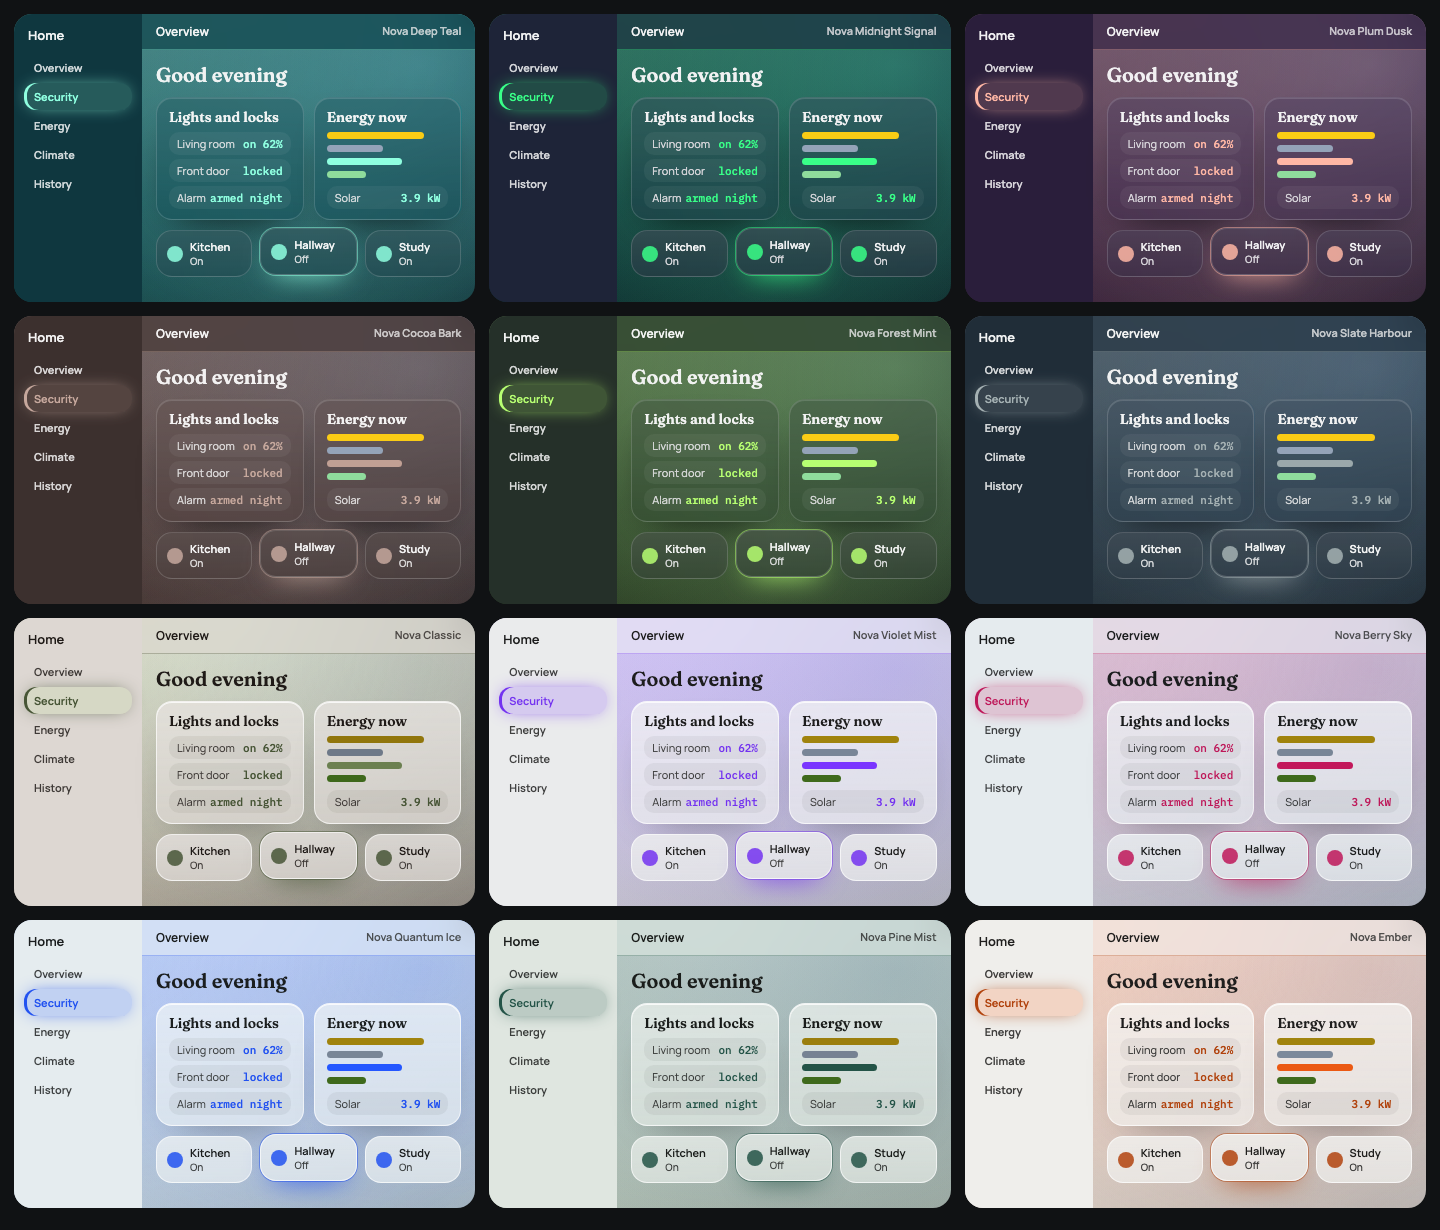
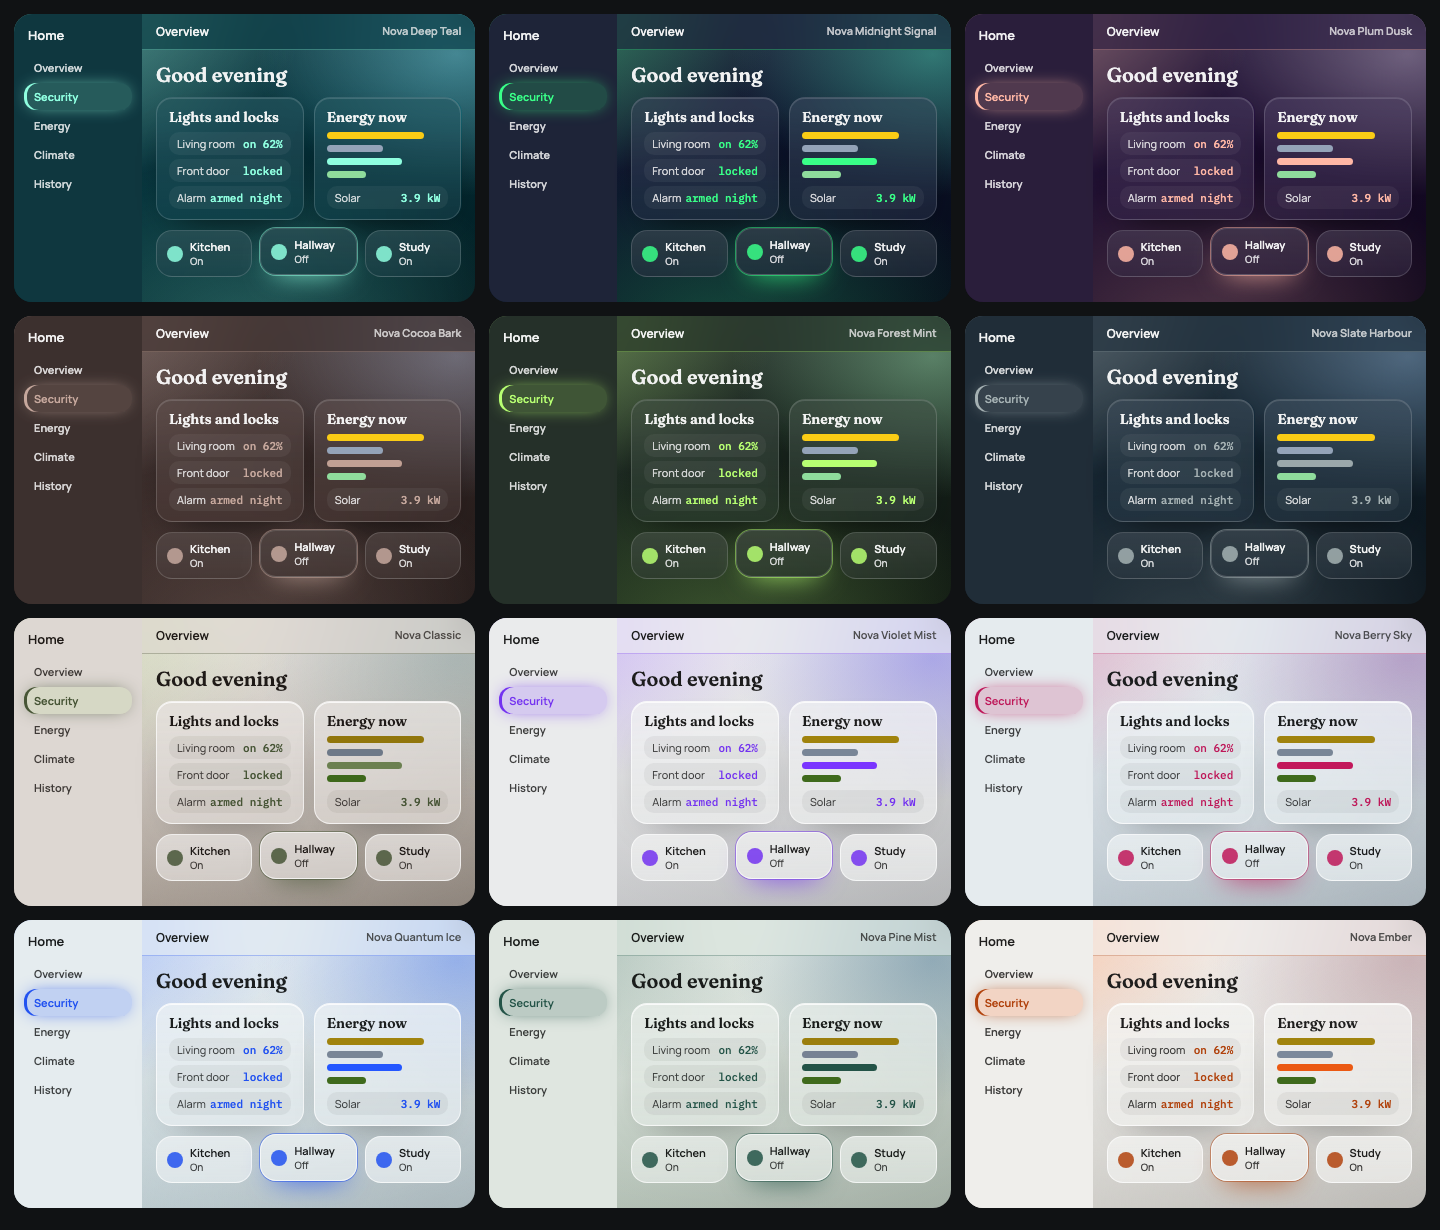
Make the themes look like the README image: lit background, pill rows, example dashboard (#11)
* Scale the lit background with the screen and add an example Nova Home dashboard

* Turn entity rows into pills and add a sections layout to the example dashboard

* Redraw the README image from the updated themes

diff --git a/scripts/check_theme.py b/scripts/check_theme.py
@@ -153,7 +153,10 @@ def main():
         mode_vals = mode_block(theme)
         css = theme.get("card-mod-card", "")
         if name in GLASS_THEMES:
-            if mode_vals.get("lovelace-background", "").count("radial-gradient") < 3:
+            bgv = mode_vals.get("lovelace-background", "")
+            if len(re.findall(r"radial-gradient\(ellipse \d+% \d+% at", bgv)) < 2:
+                errors.append(f"{name}: the lit background must scale with the screen (percentage ellipses)")
+            if bgv.count("radial-gradient") < 3:
                 errors.append(f"{name}: lovelace-background needs the ambient glow (3 radial gradients)")
             for needle in ("backdrop-filter", "@supports", ":host-context(ha-card) ha-card"):
                 if needle not in css:
@@ -179,6 +182,9 @@ def main():
             errors.append(f"{name}: card-mod-sidebar must style the selected sidebar item")
         if "border-radius: 12px !important" not in side or "margin: 2px 10px !important" not in side:
             errors.append(f"{name}: sidebar pill radius and margin need !important (Home Assistant's own styles win otherwise)")
+        row = theme.get("card-mod-row", "")
+        if ":host" not in row or "border-radius: 14px" not in row or ":hover" not in row:
+            errors.append(f"{name}: card-mod-row must turn entity rows into pills with a hover state")
         if ".header" not in root:
             errors.append(f"{name}: card-mod-root must style the header bar")
         if ":has(" not in card or ":active" not in card:

diff --git a/README.md b/README.md
@@ -35,6 +35,7 @@ Pick any of the twelve themes above from your profile to change it.
 ## What you get
 
 - Frosted glass cards over a softly lit page, with a frosted header bar (card-mod).
+- Entity rows turn into pills (card-mod), and a ready-made example dashboard sits in `dashboards/`.
 - A sidebar pill with an accent edge and glow, and tiles that lift and glow when you hover them (card-mod).
 - Fraunces card titles and Manrope body text, with IBM Plex Mono for values and code.
 - Rounder corners and a consistent shape across cards and dialogs.
@@ -92,6 +93,19 @@ lovelace:
   until you reload the page. A reload fixes it.
 - **The built-in Home (Overview) page ignores dashboard resources.** The fonts and the card-mod
   stripe show on classic dashboards, such as Security and Energy, but not on that page.
+
+## An example dashboard
+
+`dashboards/nova-home.yaml` is a ready-made dashboard laid out to suit the themes: a large
+greeting, lists with pill-shaped rows, and a row of tiles. It uses example entity IDs, so
+replace them with your own.
+
+1. **Settings → Dashboards → Add dashboard → New dashboard from scratch.**
+2. Open it, then the three-dot menu → **Raw configuration editor**.
+3. Paste the contents of `dashboards/nova-home.yaml` and save.
+
+The greeting and the pill rows need card-mod (or UIX). Without it, the dashboard still works,
+only plainer.
 
 ## Optional card-mod accents
 
